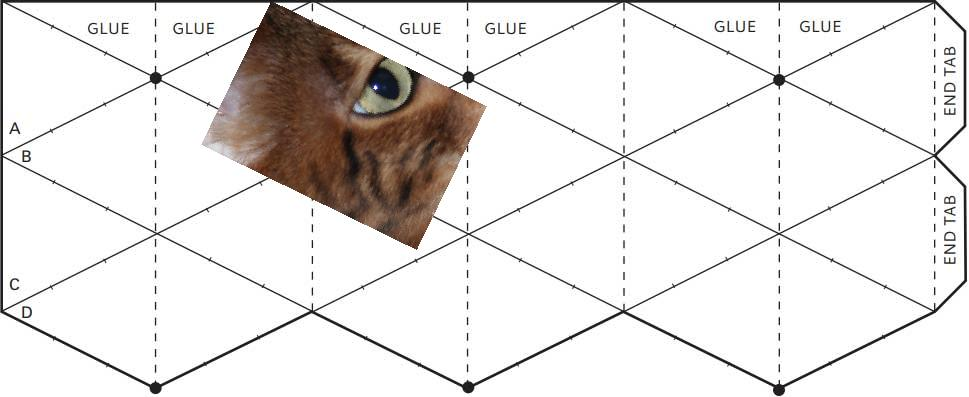
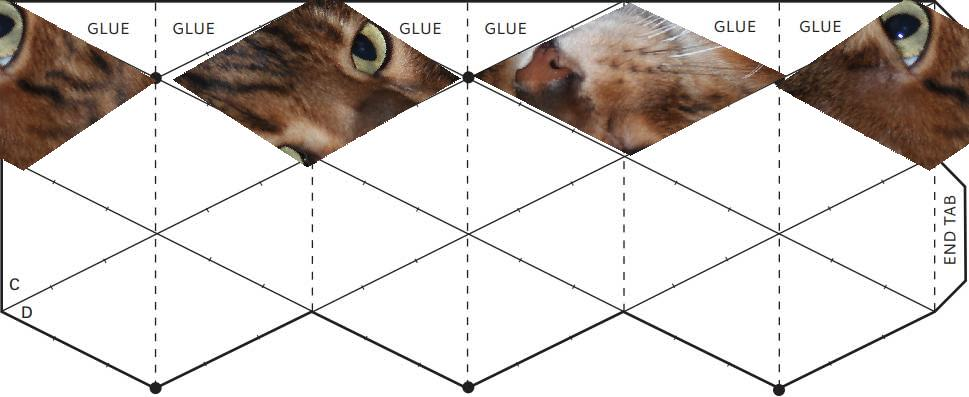
added diamond masking and did a POC placement, i'm sure its wrong

Changed region(s): [[0.0, 0.0, 1.0, 0.6348]]

diff --git a/poc.py b/poc.py
@@ -1,6 +1,6 @@
 #!/usr/bin/python
 
-from PIL import Image
+from PIL import Image, ImageDraw
 
 #pull in the backgroun
 background = Image.open("template.jpg").convert('RGBA')
@@ -17,14 +17,48 @@ height = width
 outsize = 315
 
 buttersCrop = img.crop((x, y, x+width, y+height)).resize((outsize, outsize)).convert('RGBA')
-buttersCrop.save("buttersCrop.jpg")
+# buttersCrop.save("buttersCrop.jpg")
 
+#first diamond
 diamond1 = buttersCrop.crop((0,0, 160,240))
-diamond1 = diamond1.rotate(64, expand=1)
-# fff = Image.new('RGBA', diamond1.size, (255,255,255,0))
-# diamond1 = Image.composite(diamond1, fff, diamond1)
+diamond1_mask = Image.new("RGBA", buttersCrop.size)
+dr = ImageDraw.Draw(diamond1_mask)
+dr.polygon([(155,0),(155,160),(0,240),(0,80)], outline=(0xff, 0xff, 0xff), fill=(0xff, 0xff, 0xff) )
+diamond1 = Image.composite(buttersCrop, diamond1_mask, diamond1_mask)
+# diamond1.save("1.jpg")
 
-placement = (200, 0)
-background.paste(diamond1, placement, diamond1)
+
+#second diamond
+diamond2 = buttersCrop.crop((0,0, 160,240))
+diamond2_mask = Image.new("RGBA", buttersCrop.size)
+dr = ImageDraw.Draw(diamond2_mask)
+dr.polygon([(155,0),(312,80),(312,240),(155,160)], outline=(0xff, 0xff, 0xff), fill=(0xff, 0xff, 0xff) )
+diamond2 = Image.composite(buttersCrop, diamond2_mask, diamond2_mask)
+# diamond2.save("2.jpg")
+
+
+#third diamond
+diamond3 = buttersCrop.crop((0,0, 160,240))
+diamond3_mask = Image.new("RGBA", buttersCrop.size)
+dr = ImageDraw.Draw(diamond3_mask)
+dr.polygon([(155,160),(312,240),(155,312),(0,240)], outline=(0xff, 0xff, 0xff), fill=(0xff, 0xff, 0xff) )
+diamond3 = Image.composite(buttersCrop, diamond3_mask, diamond3_mask)
+# diamond3.save("3.jpg")
+
+diamond1 = diamond1.rotate(124, expand=1)
+d1_placement = (-220, -223)
+d1_otherPlacement = (686, -223)
+
+diamond2 = diamond2.rotate(57, expand=1)
+d2_placement = (87, -55)
+
+diamond3 = diamond3.rotate(180, expand=1)
+d3_placement = (470, 0)
+
+
+background.paste(diamond1, d1_placement, diamond1)
+background.paste(diamond2, d2_placement, diamond2)
+background.paste(diamond3, d3_placement, diamond3)
+background.paste(diamond1, d1_otherPlacement, diamond1)
 
 background.save("output.jpg")
